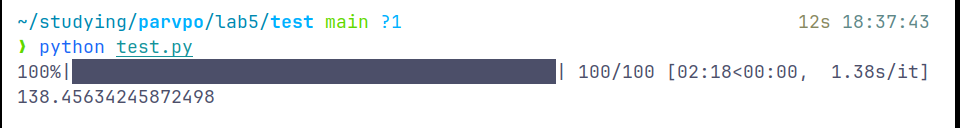
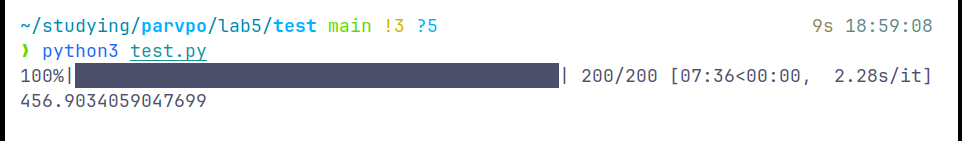
warming

Changed region(s): [[0.0, 0.2812, 0.9688, 0.8125], [0.0, 0.0938, 0.4688, 0.25], [0.8125, 0.0938, 0.9688, 0.25]]

diff --git a/lab5/test/test.py b/lab5/test/test.py
@@ -9,7 +9,7 @@ from tqdm import tqdm
 
 API_URL = os.getenv('API_URL', 'http://0.0.0.0:3232/api')
 THREADS = 1
-TRIES = 100
+TRIES = 200
 IPS = []
 with open('./ips.txt', 'r') as f:
     for line in f.readlines():

diff --git a/lab5/README.md b/lab5/README.md
@@ -1,15 +1,9 @@
-import requests
-import redis
-import os
-import json
-from flask import Flask, request
+## Никифоров Степан Б21-505 ПАРВПО Лабораторная работа N5 2024
 
-app = Flask(__name__)
-conn = redis.Redis(
-    host='redis',
-    port=int(os.getenv('REDIS_PORT', '6379'))
-)
+## Реализуемая система
+Виджет из примера. По айпишнику выдается температура и курс доллара к данной валюте
 
+```py
 def get_info(ip):
     """Хак для того чтобы хоть как то аггрегировать айпишники
     последний октет наверняка будет принадлежать одному провайдеру, поэтому просто кэшируем первые три байта айпишника, считаем что все норм"""
@@ -28,25 +22,22 @@ def get_info(ip):
     ans = {'weather': temp, 'usd price': currency_rate}
     conn.set(masked_ip, json.dumps(ans), ex=60*60)
     return ans
+```
 
+Обращения на API довольно тяжеловесные, поэтому применяется кэш, который хранится в течение 60 минут
 
-@app.route('/api/get_bar')
-def get_bar():
-    # let assume that remote_addr is literally remote
-    ip = request.args.get(
-        'ip',
-        request.remote_addr
-    )
-    return get_info(ip)
+## Используемые технологии
+flask, redis
 
-def cache_warmer():
-    with open('./ips.txt', 'r') as f:
-        for l in f.readlines():
-            try:
-                get_info(l.strip())
-            except:
-                continue
+## Результаты
+Для тестовой нагрузки был сгенерирован пул из 50 валидных IP адресов. 
 
-if __name__ == "__main__":
-    cache_warmer()
-    app.run('0.0.0.0', 3232)
+Проводилось 200 запросов с случайным выбранным IP из этого пула.
+### Без кэша
+![Without cache](./images/without_cache.png)
+
+### С кэшем без прогрева
+![Cache](./images/with_cache.png)
+
+### С кэшем и прогревом кэша
+![Warmed up](./images/with_cache_warming.png)
